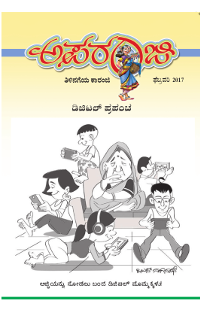
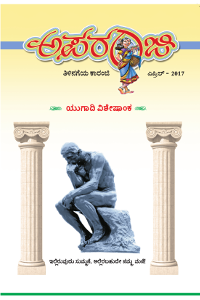
Commit No. 54 - April issue updated

diff --git a/index.php b/index.php
@@ -85,7 +85,7 @@ session_start();
 			echo "		  </div>
 				</div>";
 				
-			echo "<div class=\"cover\"><a href=\"Volumes/".$currentyear."_".$currentmonth.".pdf#page=1\" target=\"_blank\"><img src=\"php/images/cover.png\" alt=\"".$month[$currentmonth-1]."\" title=\"".$month[$currentmonth-1]." ಸಂಚಿಕೆ\"/></a></div>";
+			echo "<div class=\"cover\"><a href=\"Volumes/".$currentyear."_".$currentmonth.".pdf#page=1\" target=\"_blank\"><img src=\"php/images/cover1.png\" alt=\"".$month[$currentmonth-1]."\" title=\"".$month[$currentmonth-1]." ಸಂಚಿಕೆ\"/></a></div>";
 		?>
 			
 		

diff --git a/php/connect_db.php b/php/connect_db.php
@@ -4,7 +4,7 @@
 	$pwd="mysql";
 	$db="apr";
 	$volume='34';
-	$issue='6';
+	$issue='7';
 	
 	$db_con=mysql_connect("$host","$usr","$pwd");
 	mysql_select_db("$db",$db_con);
